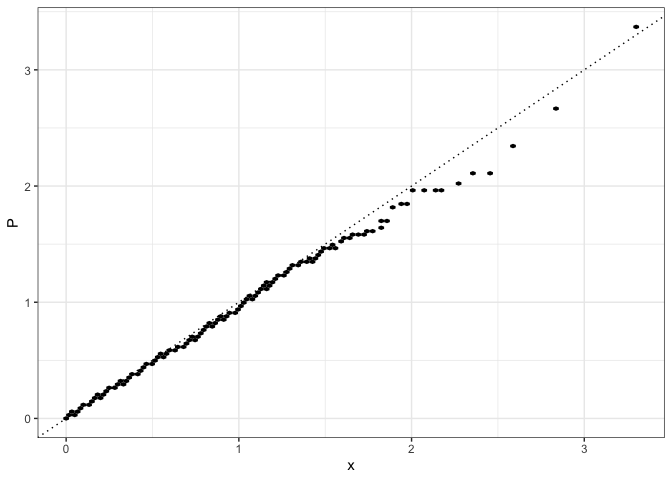
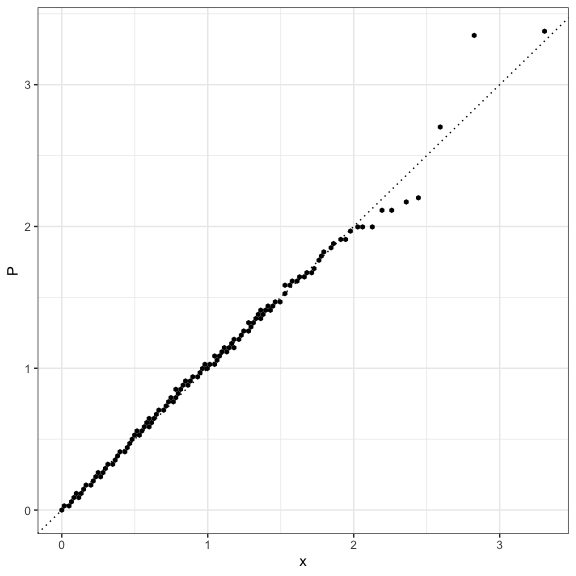
adjust figure output

diff --git a/README.md b/README.md
@@ -1,7 +1,7 @@
 
 <!-- README.md is generated from README.Rmd. Please edit that file -->
 
-# ggGWAS 🚧
+# ggGWAS
 
 <!-- badges: start -->
 
@@ -37,8 +37,7 @@ Install the `dev`b ranch:
 remotes::install_github("sinarueeger/ggGWAS", ref = "dev")
 ```
 
-Install including
-vignettes:
+Install including vignettes:
 
 ``` r
 remotes::install_github("sinarueeger/ggGWAS", build = TRUE, build_opts = c("--no-resave-data", "--no-manual"))
@@ -51,6 +50,7 @@ vignette("gggwas-internals")
 ``` r
 library(ggGWAS)
 library(ggplot2)
+#> Warning: package 'ggplot2' was built under R version 3.5.2
 
 theme_set(theme_bw())
 ## Generate some random data
@@ -67,34 +67,6 @@ df <-
   )
 ```
 
-### Manhattan plot
-
-Currently working on `stat_gwas_manhattan()` that should at one point
-look like
-    this:
-
-    ggplot(data = df) + stat_gwas_manhattan(aes(pos = POS, y = -log10(P), chr = CHR))
-
-Till then, use the `ggman::ggmanhattan` function:
-
-``` r
-library(dplyr)
-#> 
-#> Attaching package: 'dplyr'
-#> The following objects are masked from 'package:stats':
-#> 
-#>     filter, lag
-#> The following objects are masked from 'package:base':
-#> 
-#>     intersect, setdiff, setequal, union
-library(ggman)
-ggman::ggmanhattan(data = df, SNP = "SNP", chr = "CHR", bp = "POS", P = "P", sparsify = FALSE, theme_base = theme_bw(), build = 'hg18', highlight = df %>% slice(which.min(P)) %>% pull(SNP)) +
-  labs(title = "MHTPLOT" )
-#> Plotting 1000 points...
-```
-
-<img src="man/figures/README-manhattanplot-1.png" width="100%" />
-
 ### Q-Q plot
 
 Lightweight Q-Q plot (with hex tiles)
@@ -106,7 +78,7 @@ ggplot(data = df) +
   geom_abline(intercept = 0, slope = 1, linetype = 3)
 ```
 
-<img src="man/figures/README-qqplot-hex-1.png" width="100%" />
+<img src="man/figures/README-qqplot-hex-1.png" width="60%" />
 
 ``` r
 
@@ -121,15 +93,31 @@ ggplot(data = df) +
   geom_abline(intercept = 0, slope = 1, linetype = 3)
 ```
 
-<img src="man/figures/README-qqplot-1.png" width="100%" />
+<img src="man/figures/README-qqplot-1.png" width="60%" />
 
 ``` r
 
 ?stat_gwas_qq ## for more examples
 ```
 
-## Contributing
+### Manhattan plot
 
-lease note that the ‘ggGWAS’ project is released with a [Contributor
-Code of Conduct](CODE_OF_CONDUCT.md). By contributing to this project,
-you agree to abide by its terms.
+Currently working on `stat_gwas_manhattan()` that should at one point
+look like this:
+
+    ggplot(data = df) + stat_gwas_manhattan(aes(pos = POS, y = -log10(P), chr = CHR))
+
+Till then, use the `ggman::ggmanhattan` function:
+
+``` r
+library(dplyr)
+library(ggman)
+ggman::ggmanhattan(data = df, SNP = "SNP", chr = "CHR", bp = "POS", P = "P", sparsify = FALSE, theme_base = theme_bw(), build = 'hg18', highlight = df %>% slice(which.min(P)) %>% pull(SNP)) +
+  labs(title = "MHTPLOT" )
+```
+
+<img src="man/figures/README-manhattanplot-1.png" width="60%" />
+
+\#\#Contributing lease note that the ‘ggGWAS’ project is released with a
+[Contributor Code of Conduct](CODE_OF_CONDUCT.md). By contributing to
+this project, you agree to abide by its terms.
